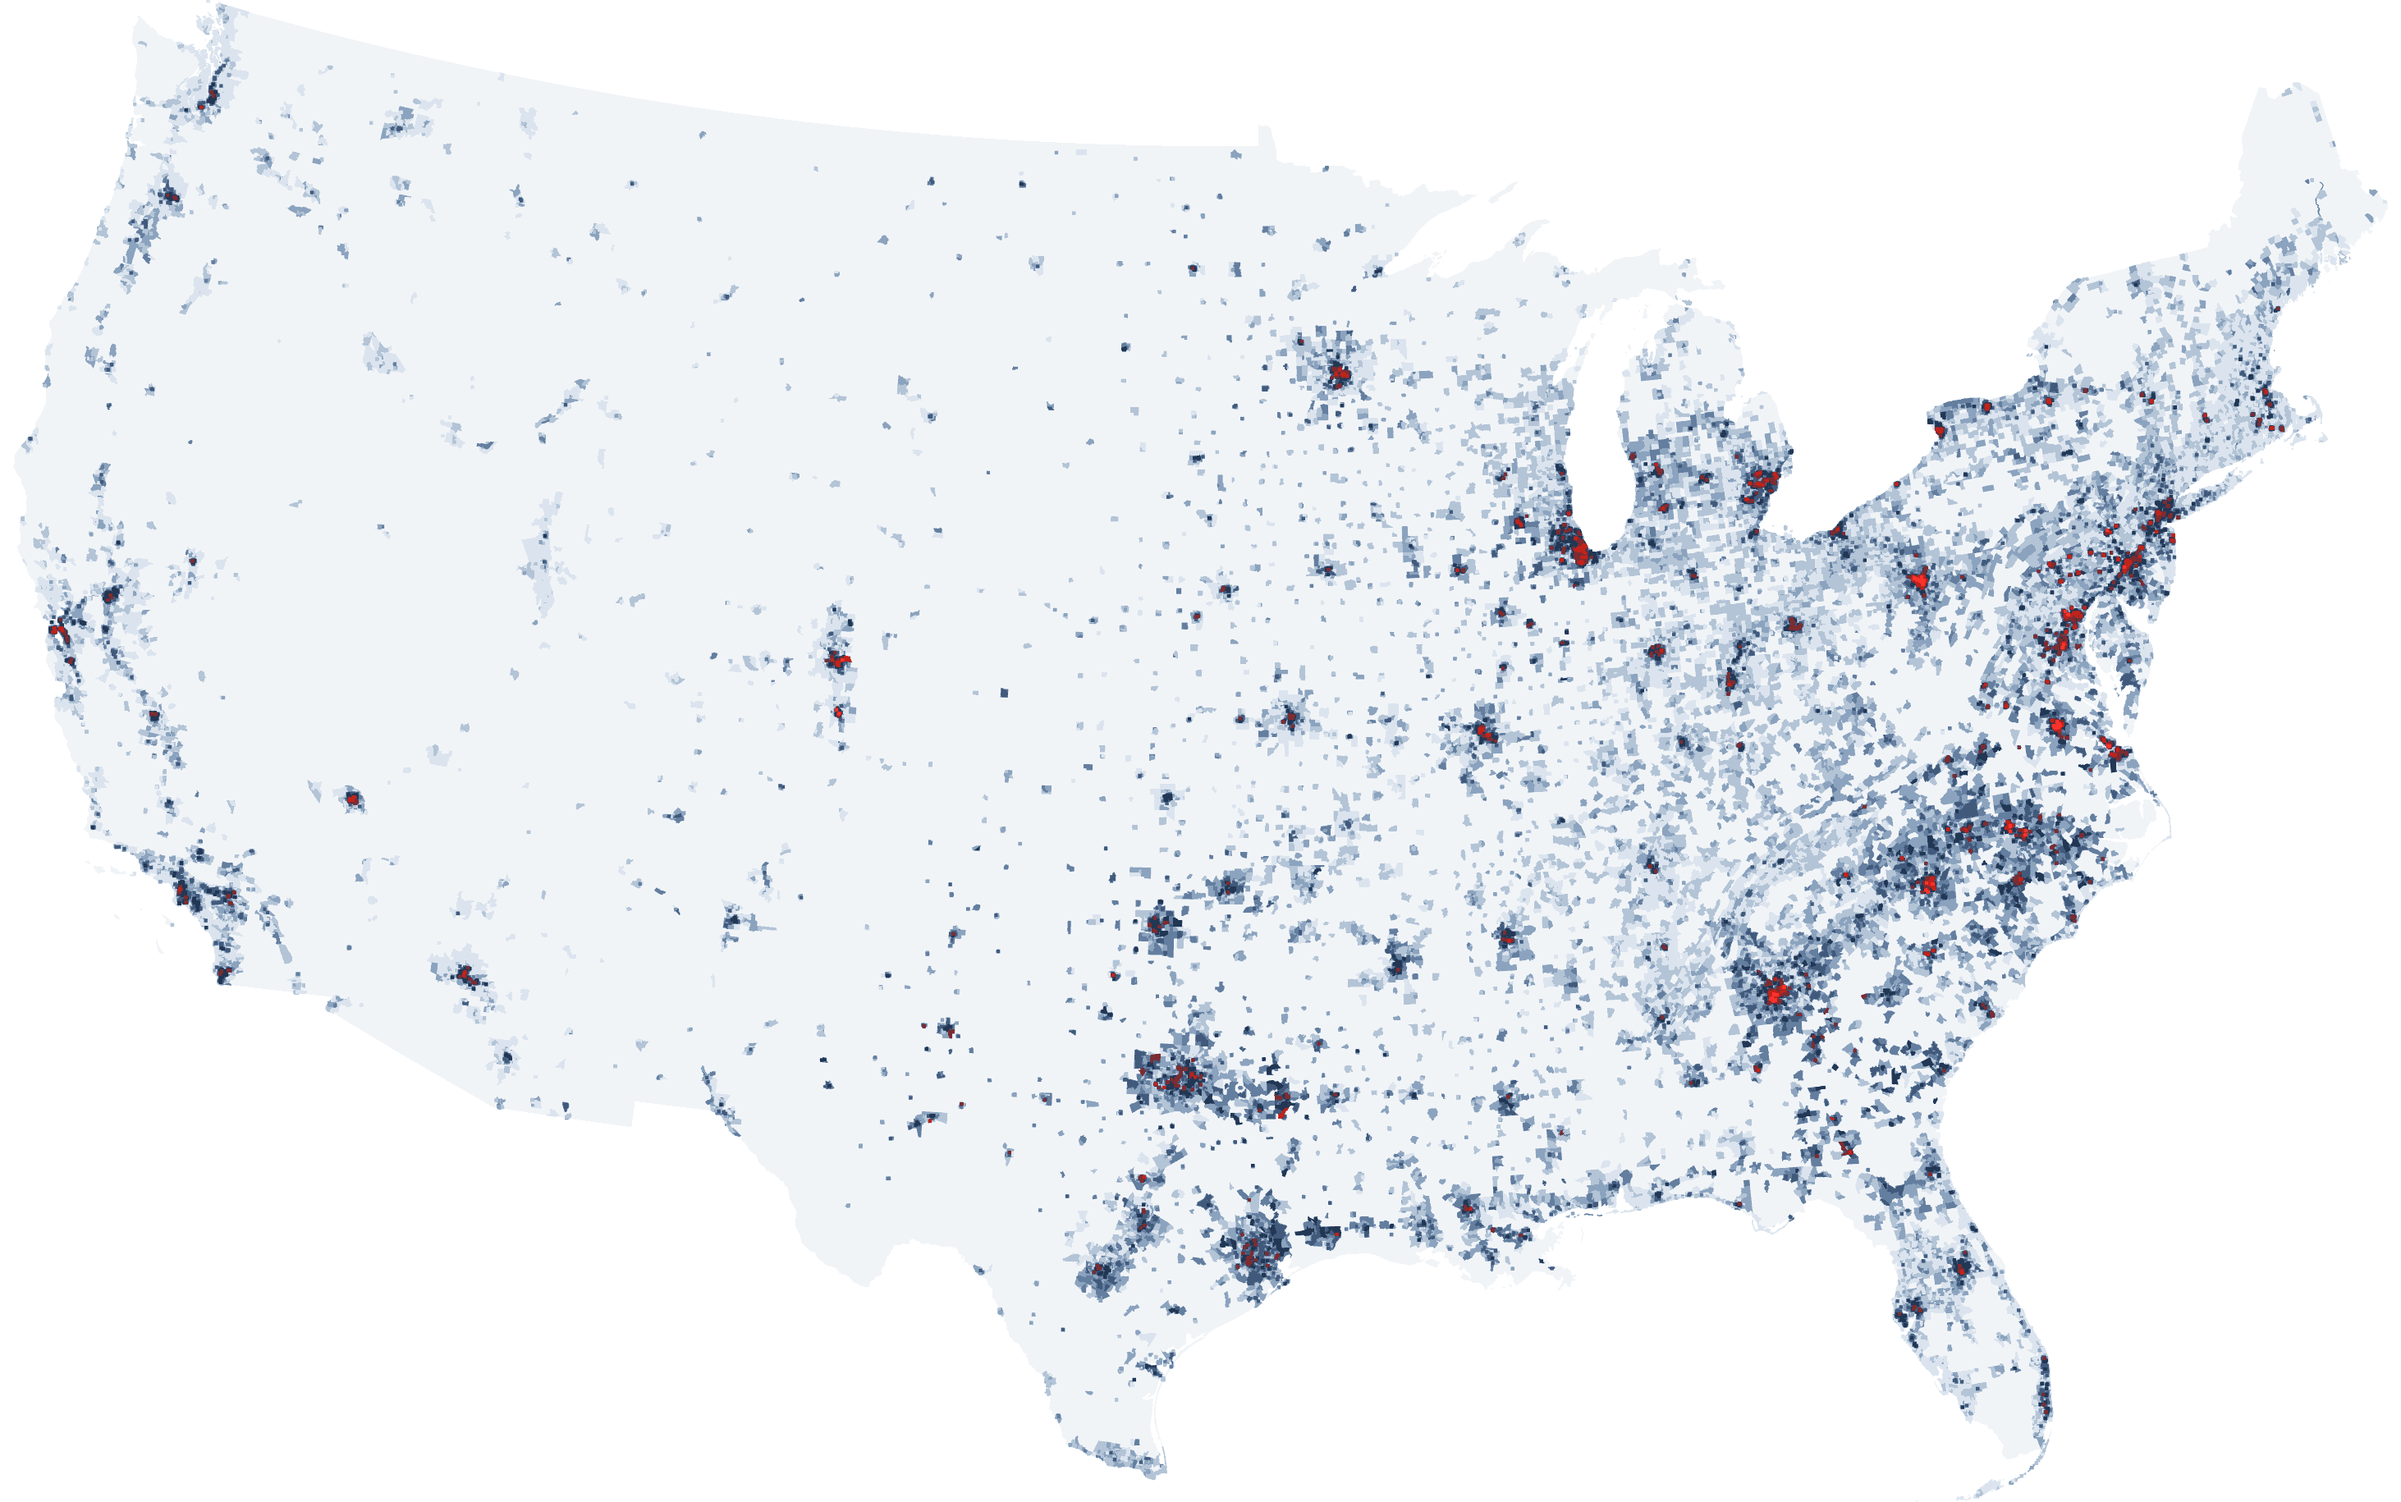
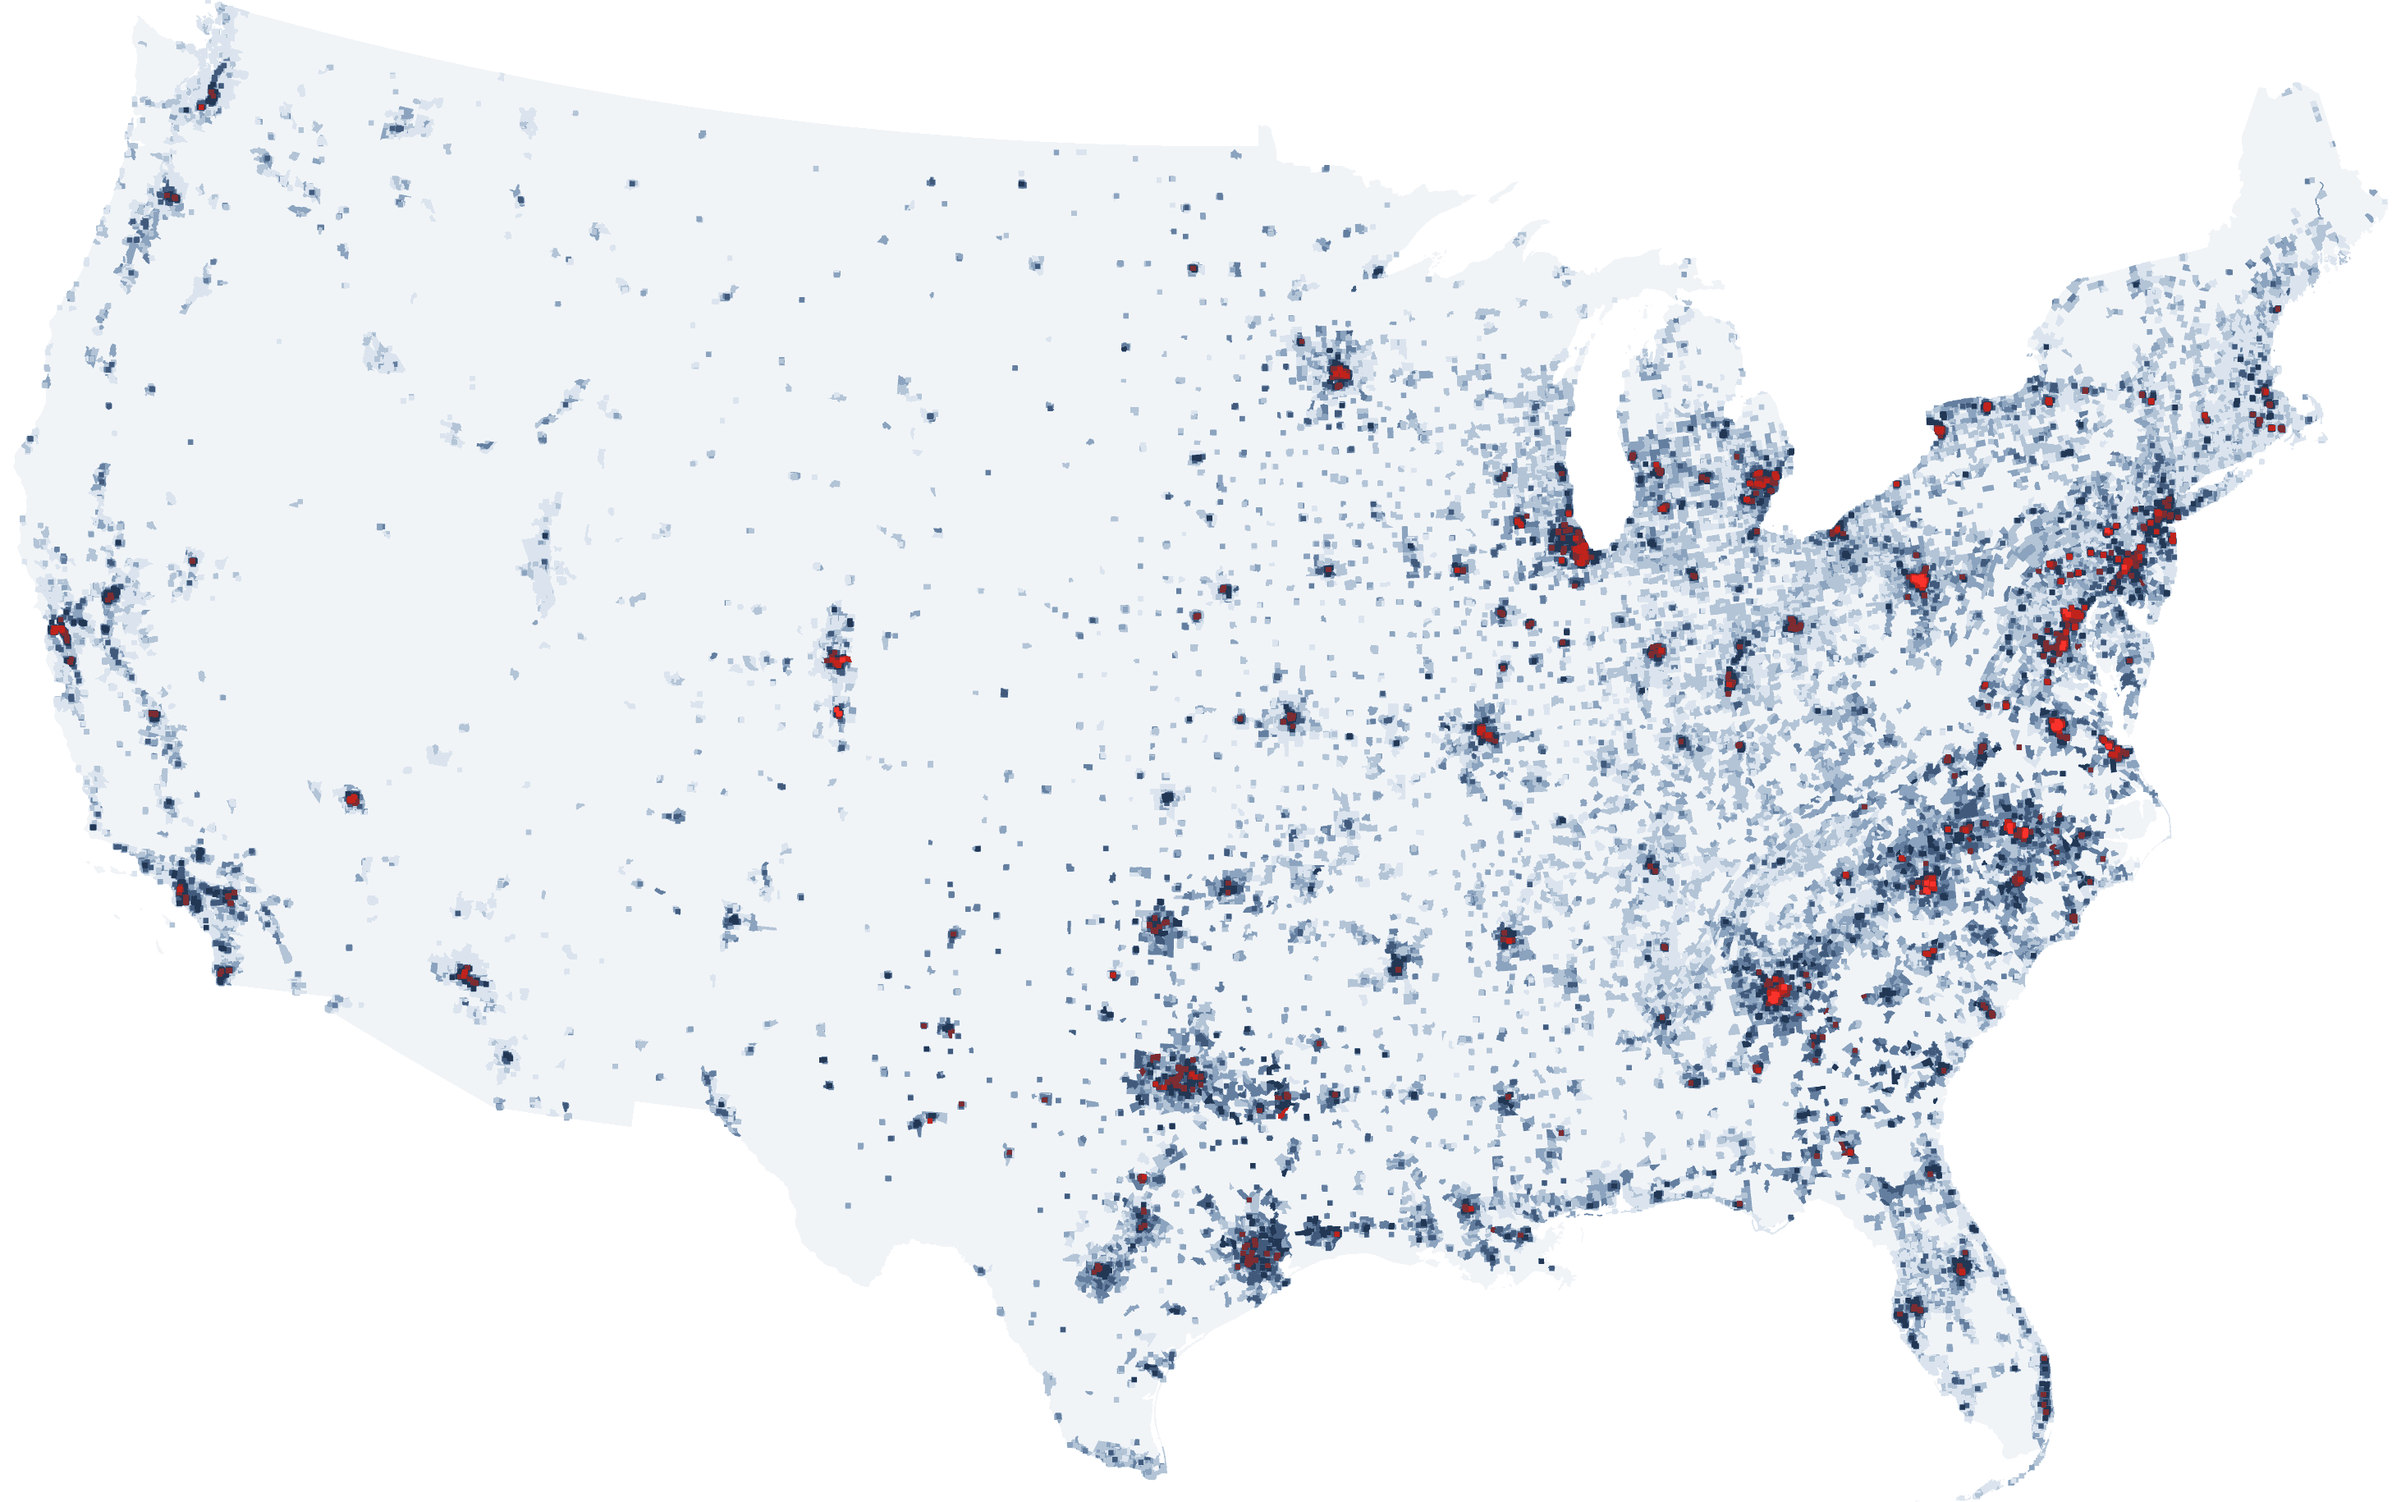
Open every navigating link in a new tab; put the HPRM map beside its text
Links: all 20 links that navigate away, internal pages and external sites
alike, now carry target="_blank" with rel="noopener noreferrer". The readout
link inside the coverage map does too, and the HPRM map's footnote link and
whole-map click switch from _top, which replaced the page, to a new tab.

Left in the same tab: the five in-page anchors and the skip link, where a new
tab would break the jump, and the two mailto links, where it leaves an empty
tab behind in most browsers.

Layout: the HPRM section becomes two columns, heading, blurb and button on the
left with the map on the right, stacking below 1000px. The map column is
narrower than the atlas map's so the two national maps do not read as the same
object.

That drops the map from roughly 1,100 to 530 CSS px wide, which put the
raster's minimum tract mark under one pixel and washed the surface out. Marks
are re-rendered at 2.2px rather than 1.5px, tuned for the size the map is now
displayed at, and the render script says so. 85.2% of mapped tracts take the
minimum mark, up from 80.4%. Compared 1.5, 2.2 and 2.8 at the true display
width: 2.8 blurred the metro clusters together, 2.2 holds them apart.

Verified from file:// and http://: both maps draw, no horizontal overflow at
390px or 900px, HPRM stacks at the breakpoint.

diff --git a/index.html b/index.html
@@ -71,9 +71,9 @@
       </a>
       <nav class="nav" aria-label="Primary">
         <a href="#atlas">Maps &amp; Profiles</a>
-        <a href="https://evictionresearch.net/hprm/">HPRM</a>
+        <a href="https://evictionresearch.net/hprm/" target="_blank" rel="noopener noreferrer">HPRM</a>
         <a href="#research">Research</a>
-        <a href="about.html">About</a>
+        <a href="about.html" target="_blank" rel="noopener noreferrer">About</a>
         <a class="btn sm" href="#partner">Contact</a>
       </nav>
     </div>
@@ -90,7 +90,7 @@
           <p class="badge">Under development</p>
           <p class="small">We're still building this out — states and sources are being added as we verify them. Check back for more data.</p>
           <p class="meta">Last updated <strong>August 2026</strong> · 50 states and D.C. · <strong>8</strong> with an ERN profile, <strong>5</strong> with no public source.</p>
-          <a class="btn" href="all_states/">See every state's data →</a>
+          <a class="btn" href="all_states/" target="_blank" rel="noopener noreferrer">See every state's data →</a>
         </div>
         <iframe class="map" src="maps/us-coverage-map.html"
                 title="Eviction data across the US — select a state"
@@ -100,15 +100,17 @@
 
     <!-- ─────────── HPRM ─────────── -->
     <section id="hprm" class="band">
-      <div class="wrap sec-sm">
-        <h2>The Housing Precarity <em>Risk Model.</em></h2>
-        <p class="sub">HPRM 2.0 scores every neighborhood in the country for eviction risk and market displacement risk on one scale, designed on decades of gentrification, displacement, and housing precarity research.</p>
-        <a class="mapcard" href="https://evictionresearch.net/hprm/">
+      <div class="wrap sec-sm hprm-grid">
+        <div>
+          <h2>The Housing Precarity <em>Risk Model.</em></h2>
+          <p class="sub">HPRM 2.0 scores every neighborhood in the country for eviction risk and market displacement risk on one scale, designed on decades of gentrification, displacement, and housing precarity research.</p>
+          <a class="btn" href="https://evictionresearch.net/hprm/" target="_blank" rel="noopener noreferrer">Explore the model →</a>
+        </div>
+        <a class="mapcard" href="https://evictionresearch.net/hprm/" target="_blank" rel="noopener noreferrer">
           <iframe class="map" src="maps/us-hprm-map.html"
                   title="HPRM 2.0 national risk map"
-                  scrolling="no" width="100%" height="762" style="height: 762px;"></iframe>
+                  scrolling="no" width="100%" height="520" style="height: 520px;"></iframe>
         </a>
-        <a class="btn" href="https://evictionresearch.net/hprm/" style="margin-top: 26px;">Explore the model →</a>
       </div>
     </section>
 
@@ -116,26 +118,26 @@
     <section id="research" class="wrap sec">
       <h2>Our <em>research.</em></h2>
       <div class="cards">
-        <a class="card" href="https://evictionresearch.net/hud-era/">
+        <a class="card" href="https://evictionresearch.net/hud-era/" target="_blank" rel="noopener noreferrer">
           <span class="kicker">Working paper · 2026</span>
           <h3>Keeping People in Their Homes: the impact of emergency rental assistance on evictions</h3>
           <p>A neighborhood-level evaluation of whether $46.6 billion in emergency rental assistance reduced eviction filings, across 700+ counties and 12,000+ census tracts in 22 states.</p>
           <span class="more">Read more →</span>
         </a>
-        <a class="card" href="https://evictionresearch.net/washington/">
+        <a class="card" href="https://evictionresearch.net/washington/" target="_blank" rel="noopener noreferrer">
           <span class="kicker">State profile · 2026</span>
           <h3>Washington eviction filings, 2016–2026</h3>
           <p>Over the past 36 months, 1 in 45 renter households faced an eviction filing, roughly 49% above the pre-pandemic normal. Seven of 39 counties exceed the state rate.</p>
           <span class="more">Read more →</span>
         </a>
-        <a class="card" href="cityscape-2024.html">
+        <a class="card" href="cityscape-2024.html" target="_blank" rel="noopener noreferrer">
           <span class="kicker">Cityscape (HUD) · 2024</span>
           <h3>Toward a national eviction data collection strategy using natural language processing</h3>
           <p>How ERN mined 111,740 Washington court records buried in scanned PDFs and handwritten paper to expose the racial and gender disparities structured data could not see.</p>
           <span class="more">Read more →</span>
         </a>
       </div>
-      <a class="btn ghost" href="research.html" style="margin-top: 36px;">All research →</a>
+      <a class="btn ghost" href="research.html" style="margin-top: 36px;" target="_blank" rel="noopener noreferrer">All research →</a>
     </section>
 
     <!-- ─────────── What we do ─────────── -->
@@ -158,7 +160,7 @@
         </div>
         <div class="actions">
           <a class="btn" href="mailto:evictions@berkeley.edu?Subject=Partnership%20inquiry%20via%20ERN%20website">Start a conversation →</a>
-          <a class="btn on-dark" href="methodology.html">See how we work →</a>
+          <a class="btn on-dark" href="methodology.html" target="_blank" rel="noopener noreferrer">See how we work →</a>
         </div>
       </div>
     </section>
@@ -180,28 +182,28 @@
       <div class="foot-col">
         <span>Data</span>
         <a href="#atlas">Maps &amp; profiles</a>
-        <a href="https://evictionresearch.net/hprm/">HPRM risk maps</a>
-        <a href="all_states/">U.S. Eviction Data Directory</a>
+        <a href="https://evictionresearch.net/hprm/" target="_blank" rel="noopener noreferrer">HPRM risk maps</a>
+        <a href="all_states/" target="_blank" rel="noopener noreferrer">U.S. Eviction Data Directory</a>
       </div>
       <div class="foot-col">
         <span>Research</span>
-        <a href="research.html">Publications</a>
-        <a href="methodology.html">Methodology</a>
-        <a href="understanding-eviction.html">Understanding eviction</a>
-        <a href="news.html">News &amp; press</a>
+        <a href="research.html" target="_blank" rel="noopener noreferrer">Publications</a>
+        <a href="methodology.html" target="_blank" rel="noopener noreferrer">Methodology</a>
+        <a href="understanding-eviction.html" target="_blank" rel="noopener noreferrer">Understanding eviction</a>
+        <a href="news.html" target="_blank" rel="noopener noreferrer">News &amp; press</a>
       </div>
       <div class="foot-col">
         <span>Contact</span>
         <a href="mailto:evictions@berkeley.edu?Subject=Contact%20through%20website">evictions@berkeley.edu</a>
-        <a href="https://bsky.app/profile/evictionresearch.bsky.social">Bluesky</a>
-        <a href="https://www.linkedin.com/company/evictionresearch/">LinkedIn</a>
-        <a href="https://github.com/evictionresearch">GitHub</a>
+        <a href="https://bsky.app/profile/evictionresearch.bsky.social" target="_blank" rel="noopener noreferrer">Bluesky</a>
+        <a href="https://www.linkedin.com/company/evictionresearch/" target="_blank" rel="noopener noreferrer">LinkedIn</a>
+        <a href="https://github.com/evictionresearch" target="_blank" rel="noopener noreferrer">GitHub</a>
       </div>
     </div>
     <div class="foot-bar">
       <div class="wrap">
         <span>© 2026 Eviction Research Network · University of California, Berkeley</span>
-        <span><a href="https://dap.berkeley.edu/get-help/report-web-accessibility-issue">Report a web accessibility issue</a></span>
+        <span><a href="https://dap.berkeley.edu/get-help/report-web-accessibility-issue" target="_blank" rel="noopener noreferrer">Report a web accessibility issue</a></span>
       </div>
     </div>
   </footer>

diff --git a/assets/css/home-2026.css b/assets/css/home-2026.css
@@ -155,6 +155,12 @@ h1 em, h2 em { font-style: normal; font-weight: 600; }
 iframe.map { display: block; width: 100%; max-width: 100%; border: none; overflow: hidden; }
 
 /* ─── HPRM ─── */
+/* Text left, map right. The map column is deliberately narrower than the
+   atlas map's, so the two national maps do not read as the same object. */
+.hprm-grid { display: grid; grid-template-columns: 1fr 1.1fr; gap: 56px; align-items: center; }
+.hprm-grid > div { min-width: 0; }
+.hprm-grid .sub { max-width: 46ch; }
+
 .mapcard {
   display: block; background: var(--paper); border: 1px solid var(--rule);
   border-radius: 4px; padding: 20px 22px; text-decoration: none;
@@ -203,6 +209,8 @@ iframe.map { display: block; width: 100%; max-width: 100%; border: none; overflo
   .nav { width: 100%; flex-wrap: wrap; gap: 14px 18px; padding-top: 4px; }
   .nav a { font-size: 12.5px; }
   .atlas-grid { grid-template-columns: 1fr; gap: 28px; }
+  .hprm-grid { grid-template-columns: 1fr; gap: 32px; }
+  .hprm-grid .sub { max-width: 72ch; }
 }
 @media (max-width: 900px) {
   :root { --pad: 20px; }

diff --git a/maps/us-hprm-map.html b/maps/us-hprm-map.html
@@ -38,7 +38,7 @@
 <div id="mapholder"></div>
 <p id="note">
   <span>Displacement risk plus eviction risk on a 0–8 scale, one value per tract. Most tracts are smaller than a pixel at this scale and are drawn at a minimum size. Tracts with no renter households or fewer than 20 people per square kilometre are not scored; Alaska and Hawaii are not modelled.</span>
-  <a href="https://evictionresearch.net/hprm/" target="_top">Open the HPRM map →</a>
+  <a href="https://evictionresearch.net/hprm/" target="_blank" rel="noopener noreferrer">Open the HPRM map →</a>
 </p>
 <div id="tip"></div>
 <!-- BEGIN generated: hprm-metros -->
@@ -105,7 +105,7 @@
       })
       .on('mouseleave', function () { halo.attr('opacity', 0); tip.style.opacity = 0; })
       .on('click', function () {
-        try { window.open(HPRM, '_top'); } catch (e) { window.location.href = HPRM; }
+        window.open(HPRM, '_blank', 'noopener');
       });
     postH();
   });

diff --git a/maps/us-coverage-map.html b/maps/us-coverage-map.html
@@ -90,11 +90,8 @@
       plink.hidden = false;
       plink.href = r.url;
       plink.textContent = r.kind === 'ern' ? 'Open profile →' : 'See the source →';
-      if (r.url.indexOf('https://evictionresearch.net') === 0) {
-        plink.removeAttribute('target'); plink.removeAttribute('rel');
-      } else {
-        plink.setAttribute('target', '_blank'); plink.setAttribute('rel', 'noopener noreferrer');
-      }
+      plink.setAttribute('target', '_blank');
+      plink.setAttribute('rel', 'noopener noreferrer');
     } else {
       plink.hidden = true;
       plink.removeAttribute('href');
